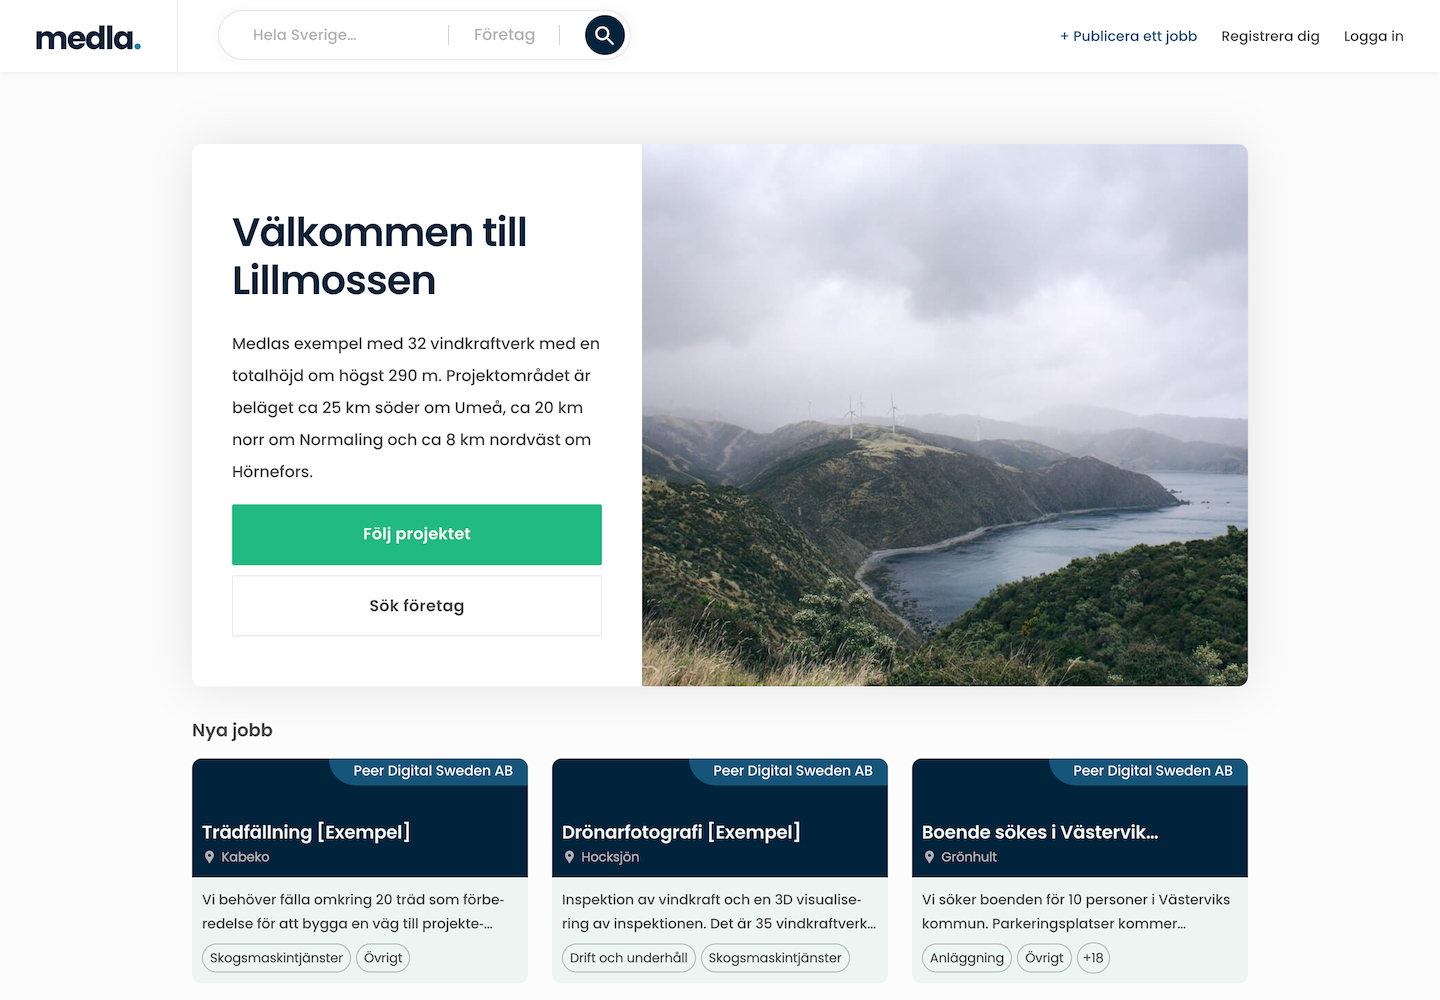
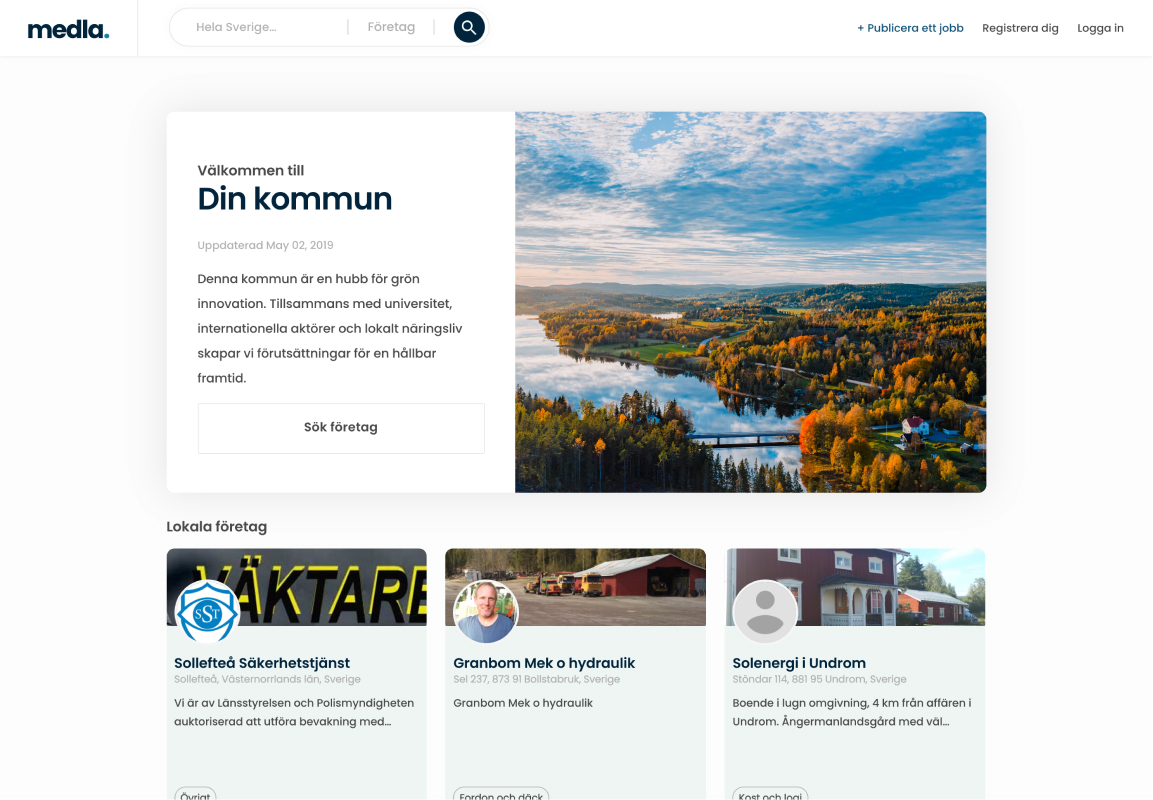
WIP 3 connect municipality

diff --git a/src/components/ImageGalleryMunicipality/ImageGalleryMunicipality.js b/src/components/ImageGalleryMunicipality/ImageGalleryMunicipality.js
@@ -157,12 +157,12 @@ class ImageGalleryMunicipality extends Component {
         <div className={css.imageContainer}>
         <img id="firstImage" className={css.image} src={firstImage} alt="search"/>
         <h3 id="firstHeading" className={css.imageHeading}>Söksida</h3>
-        <span id="firstText">Hitta lokala företag med en smart sökmotor.</span>
+        <span id="firstText">Låt projektörer nå ert näringsliv med smarta sökfunktioner.</span>
         </div>
         <div className={css.imageContainer}>
         <img id="secondImage" className={css.image} src={secondImage} alt="project"/>
-        <h3 id="secondHeading" className={css.imageHeading}>Projektsida</h3>
-        <span id="secondText">En dynamisk projektsida gör underlättar den lokala affärsförmedlingen.</span>
+        <h3 id="secondHeading" className={css.imageHeading}>Kommunsida</h3>
+        <span id="secondText">Dynamisk kommunsida för näringslivets synlighet och lokala affärer.</span>
         </div>
         <div className={css.imageContainer}>
         <img id="thirdImage" className={css.image} src={thirdImage} alt="chat"/>
